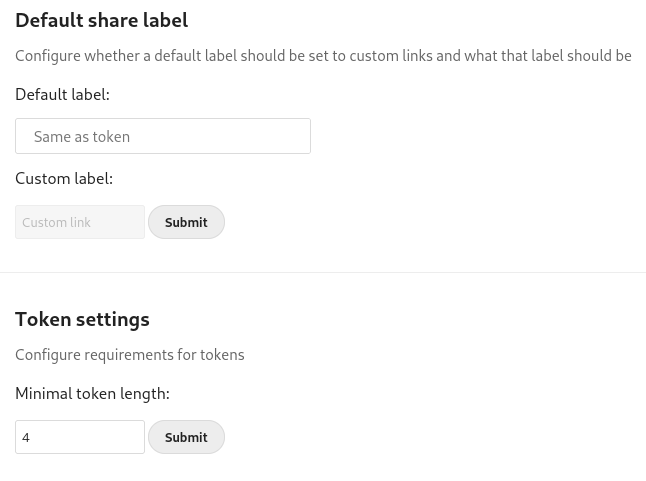
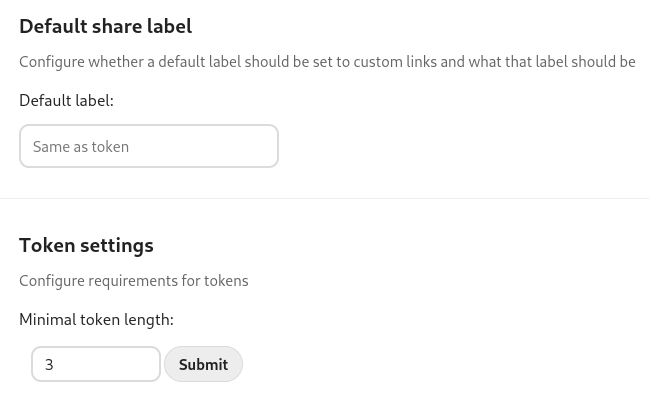
Update screenshots

diff --git a/README.md b/README.md
@@ -36,4 +36,8 @@ You can also customize share tokens of existing public links as can be seen in t
 Admins can set default labels for custom links and minimal token length as can be seen in the next screenshot.
 Default label can be: none, same as token or custom (the same custom label for all custom links).
 
-![Sidebar preview](screens/nc01.png "Sidebar preview")
+![Admin settings preview](screens/nc01.png "Admin settings preview")
+
+Since version [2.0.1](https://github.com/jimmyl0l3c/cfg_share_links/releases/tag/v2.0.1) you can create custom links when **Enforce password protection** is enabled as can be seen in the screenshot below.
+
+![Sidebar with enforce password preview](screens/nc04.png "Sidebar with enforce password preview")
